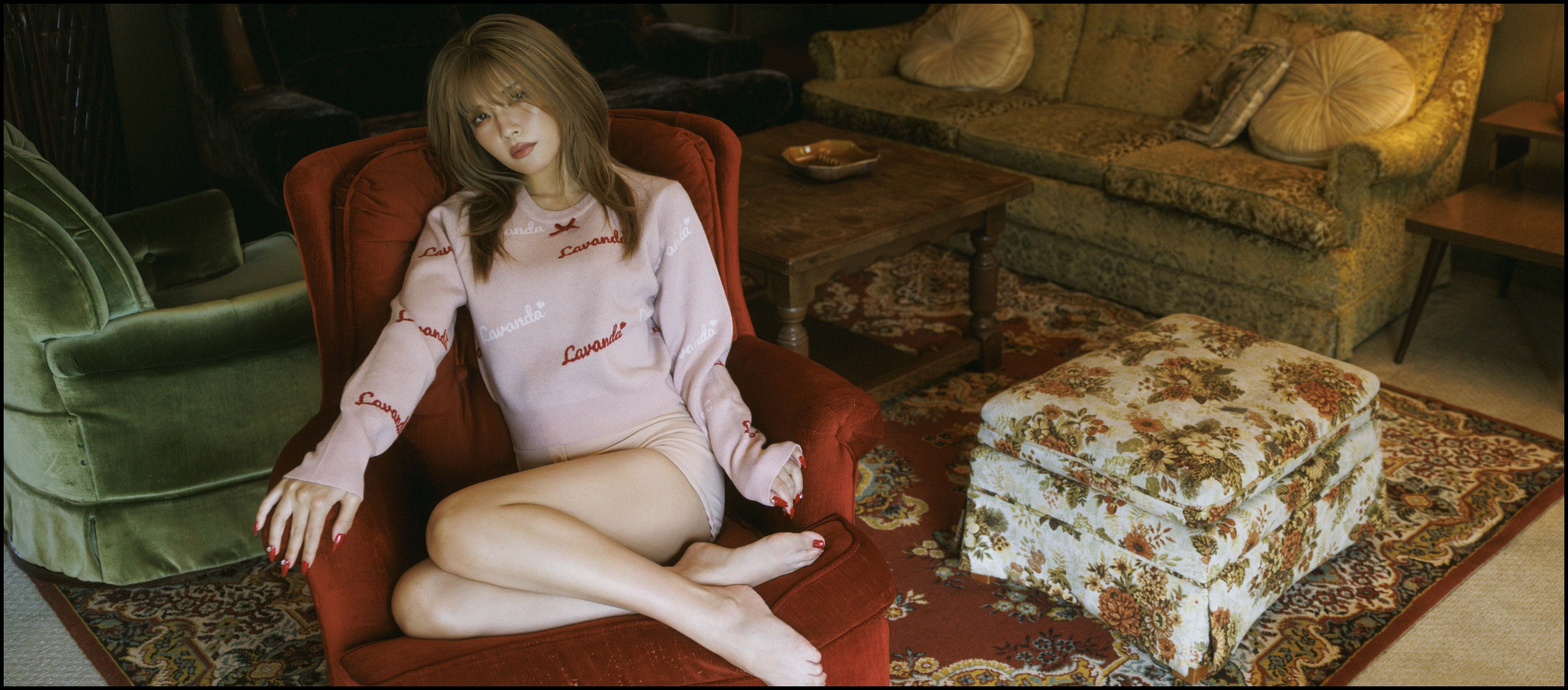
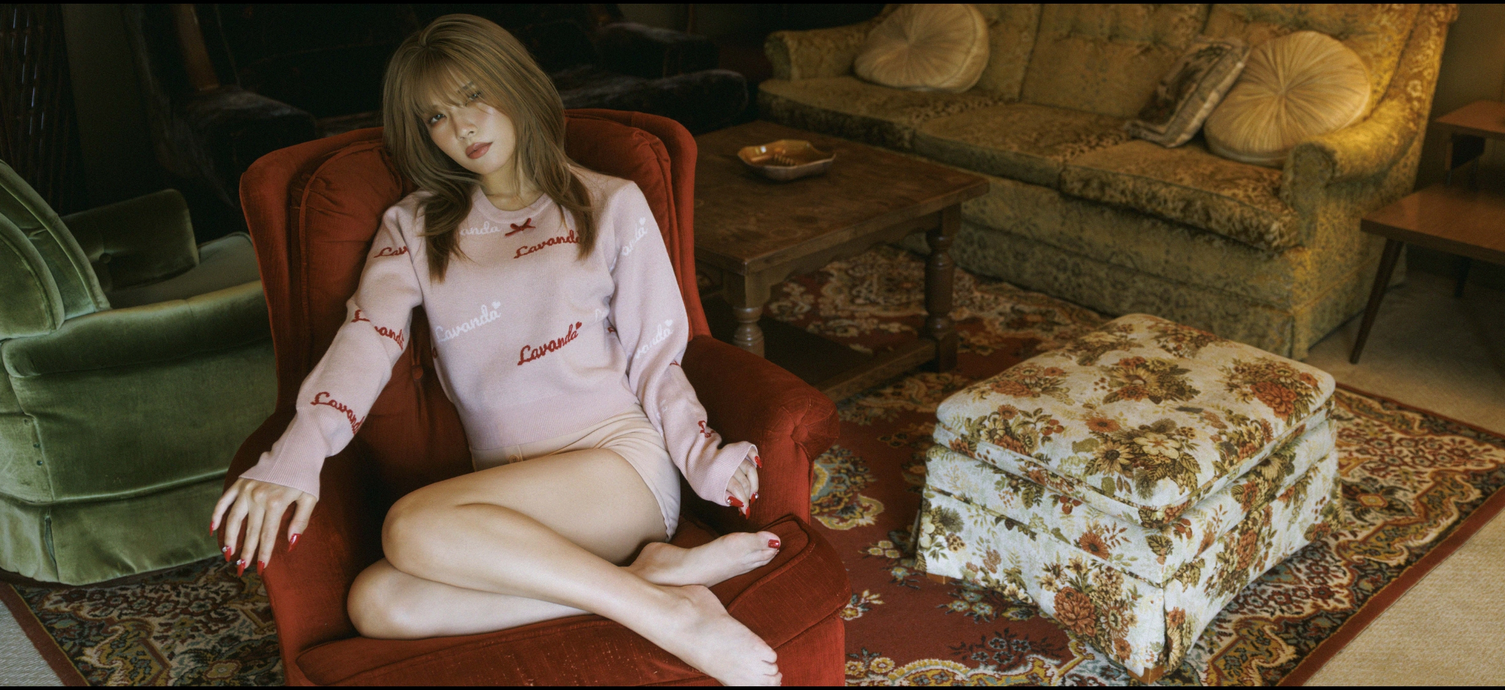
s5 セクション 完成時

diff --git a/src/sass/page/_s5.scss b/src/sass/page/_s5.scss
@@ -1,0 +1,34 @@
+@use "global" as *;
+
+
+.s5 {
+  background: $color-accent1;
+}
+
+.l-s5 {
+
+}
+
+.s5__inner {
+
+}
+
+.s5__top-bg {
+  margin: 0 calc(50% - 50vw);
+  display: block;
+
+  img {
+    width: 100vw;
+    margin: 0 calc(50% - 50vw);  // 親要素をはみ出るように指定。(『width: 100vw;』と併用で適用可能)
+  }
+}
+
+.s5__products {
+  margin-top: rem(25);
+}
+
+.s5__products .products__item {
+  margin-right: 0;
+  margin-left: auto;
+  border-bottom: 1px dashed #000;
+}

diff --git a/src/index.html b/src/index.html
@@ -240,7 +240,7 @@
 
     <!-- s5 セクション -->
     <section class="s5 l-s5">
-      <div class="s4-pc__inner inner">
+      <div class="s5__inner inner">
         <picture class="s5__top-bg">
           <source media="(min-width: 768px)" srcset="./assets/images/common/pc/s5-img-pc.jpg">
           <img src="./assets/images/common/sp/s5-img-sp.jpg" alt="モデル写真16">

diff --git a/src/sass/module/_l-s5.scss b/src/sass/module/_l-s5.scss
@@ -1,0 +1,10 @@
+@use "global" as *;
+
+
+.l-s5 {
+  margin-top: rem(90);
+
+  @include mq(md) {
+    margin-top: rem(160);
+  }
+}
